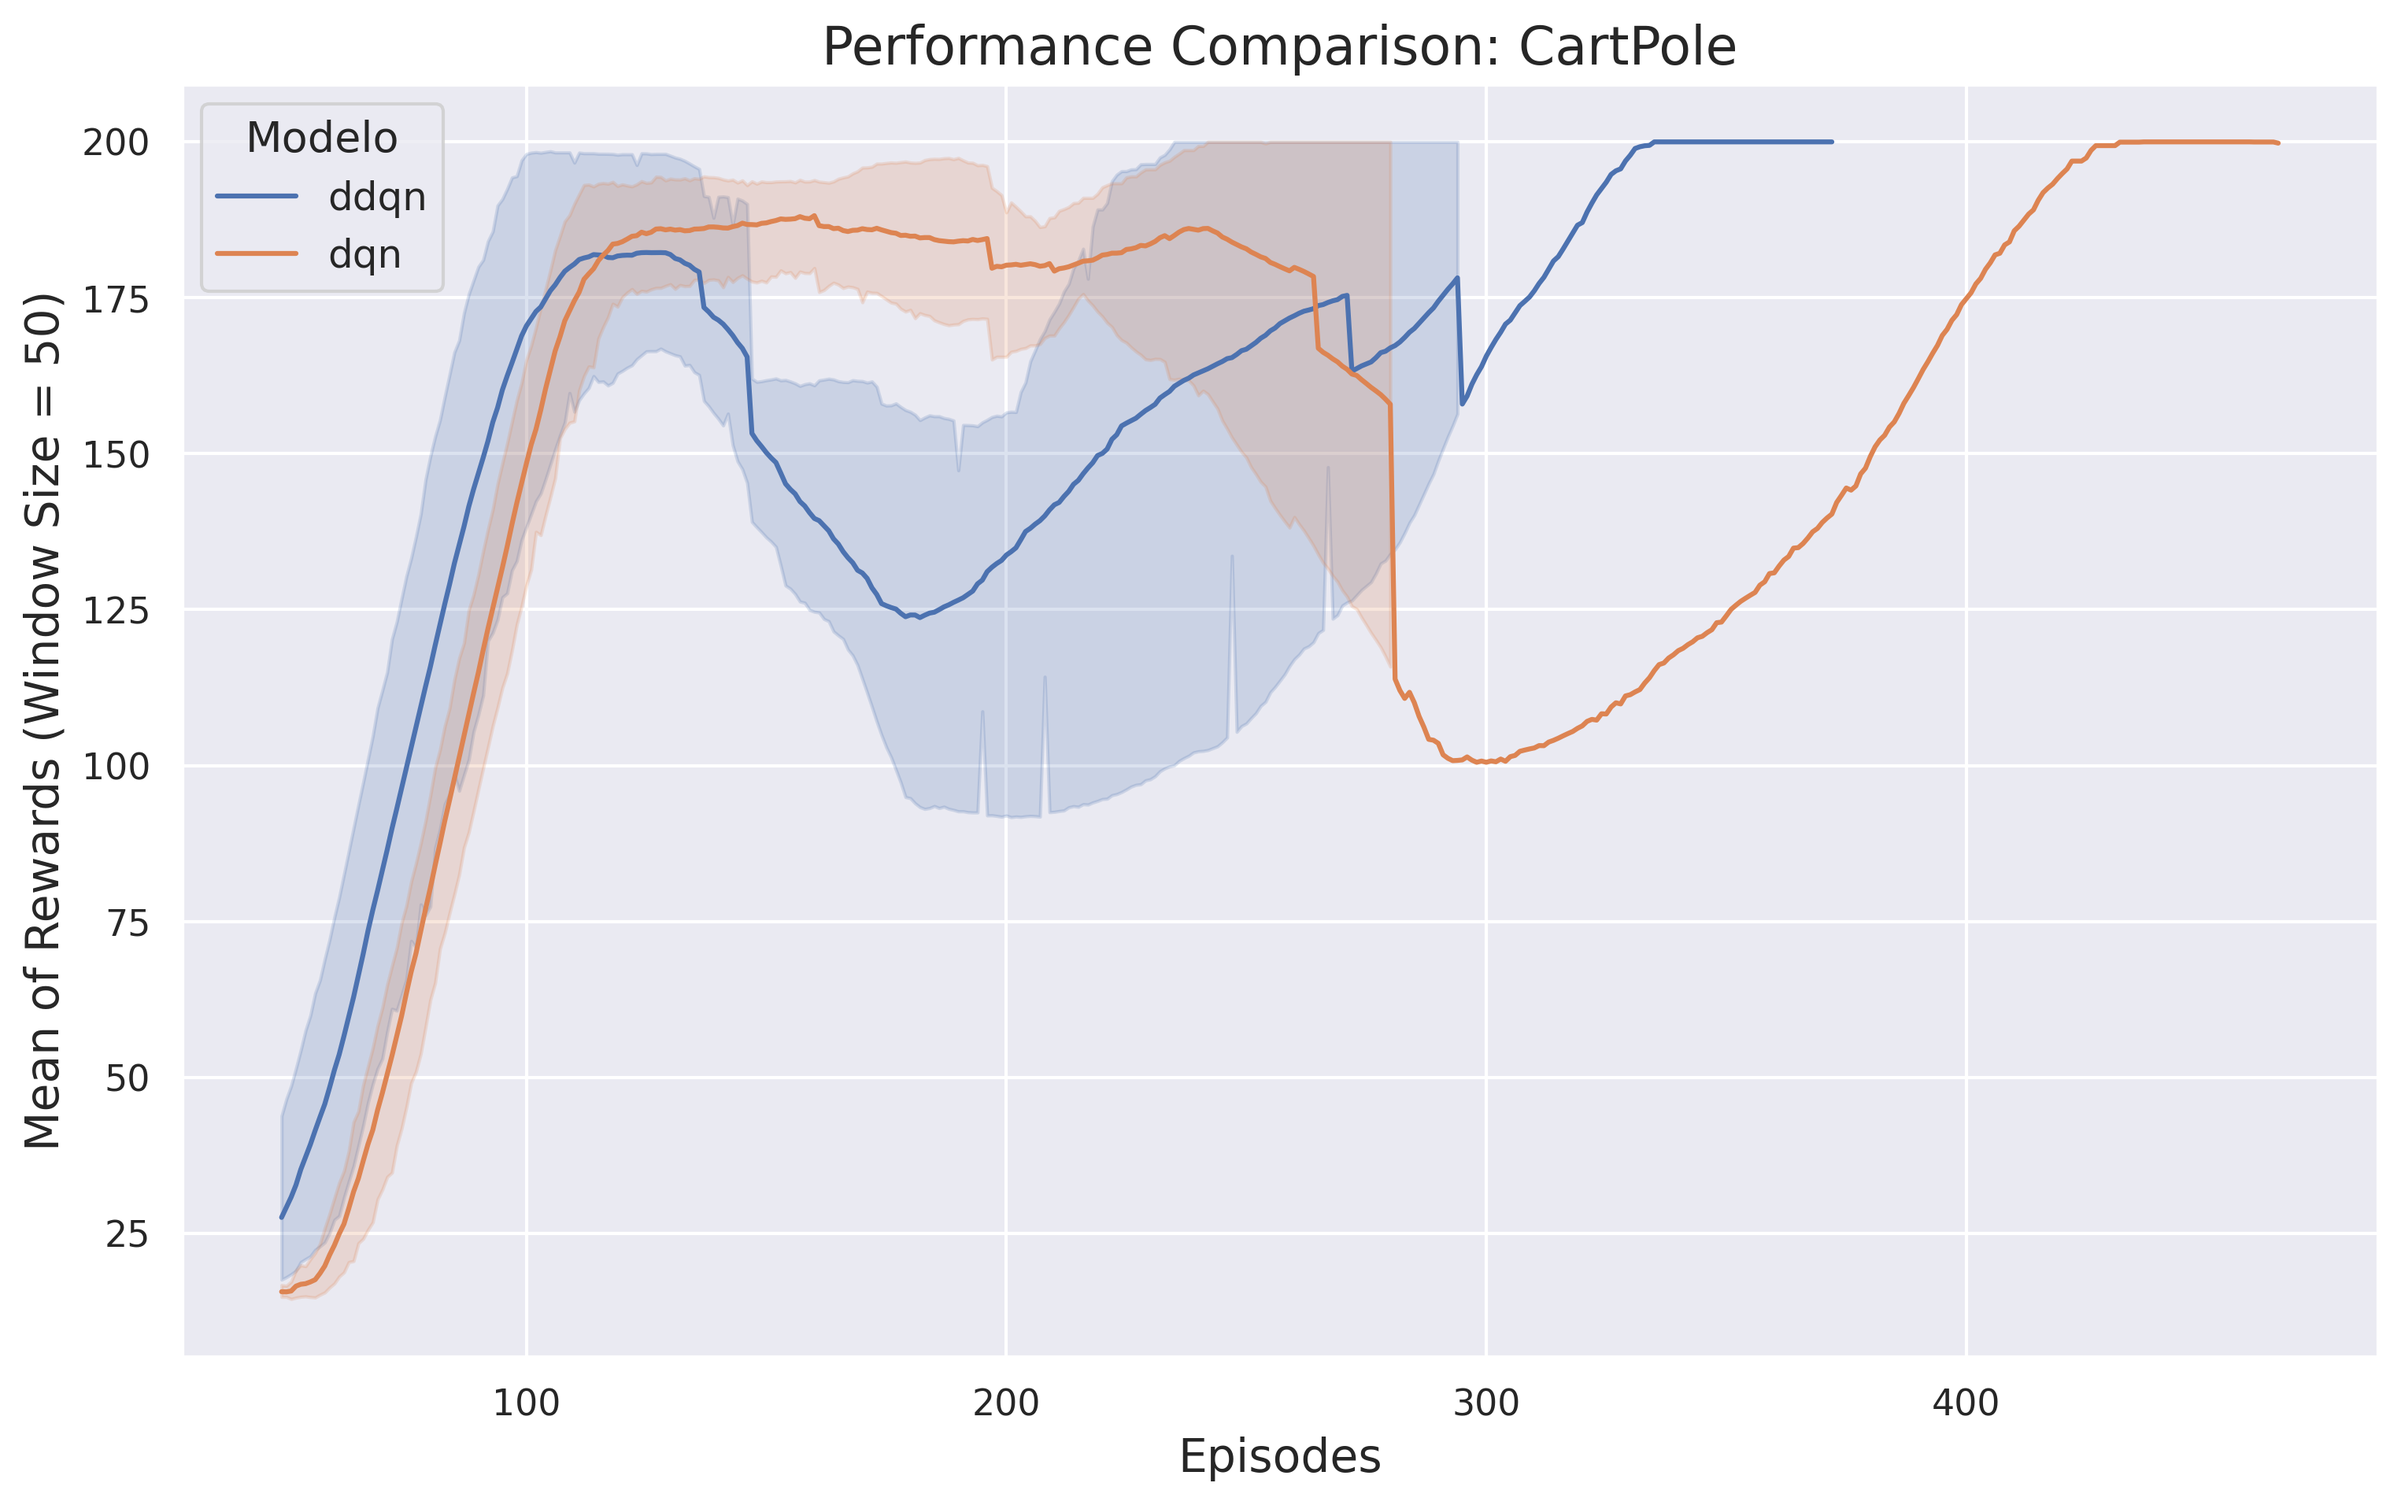
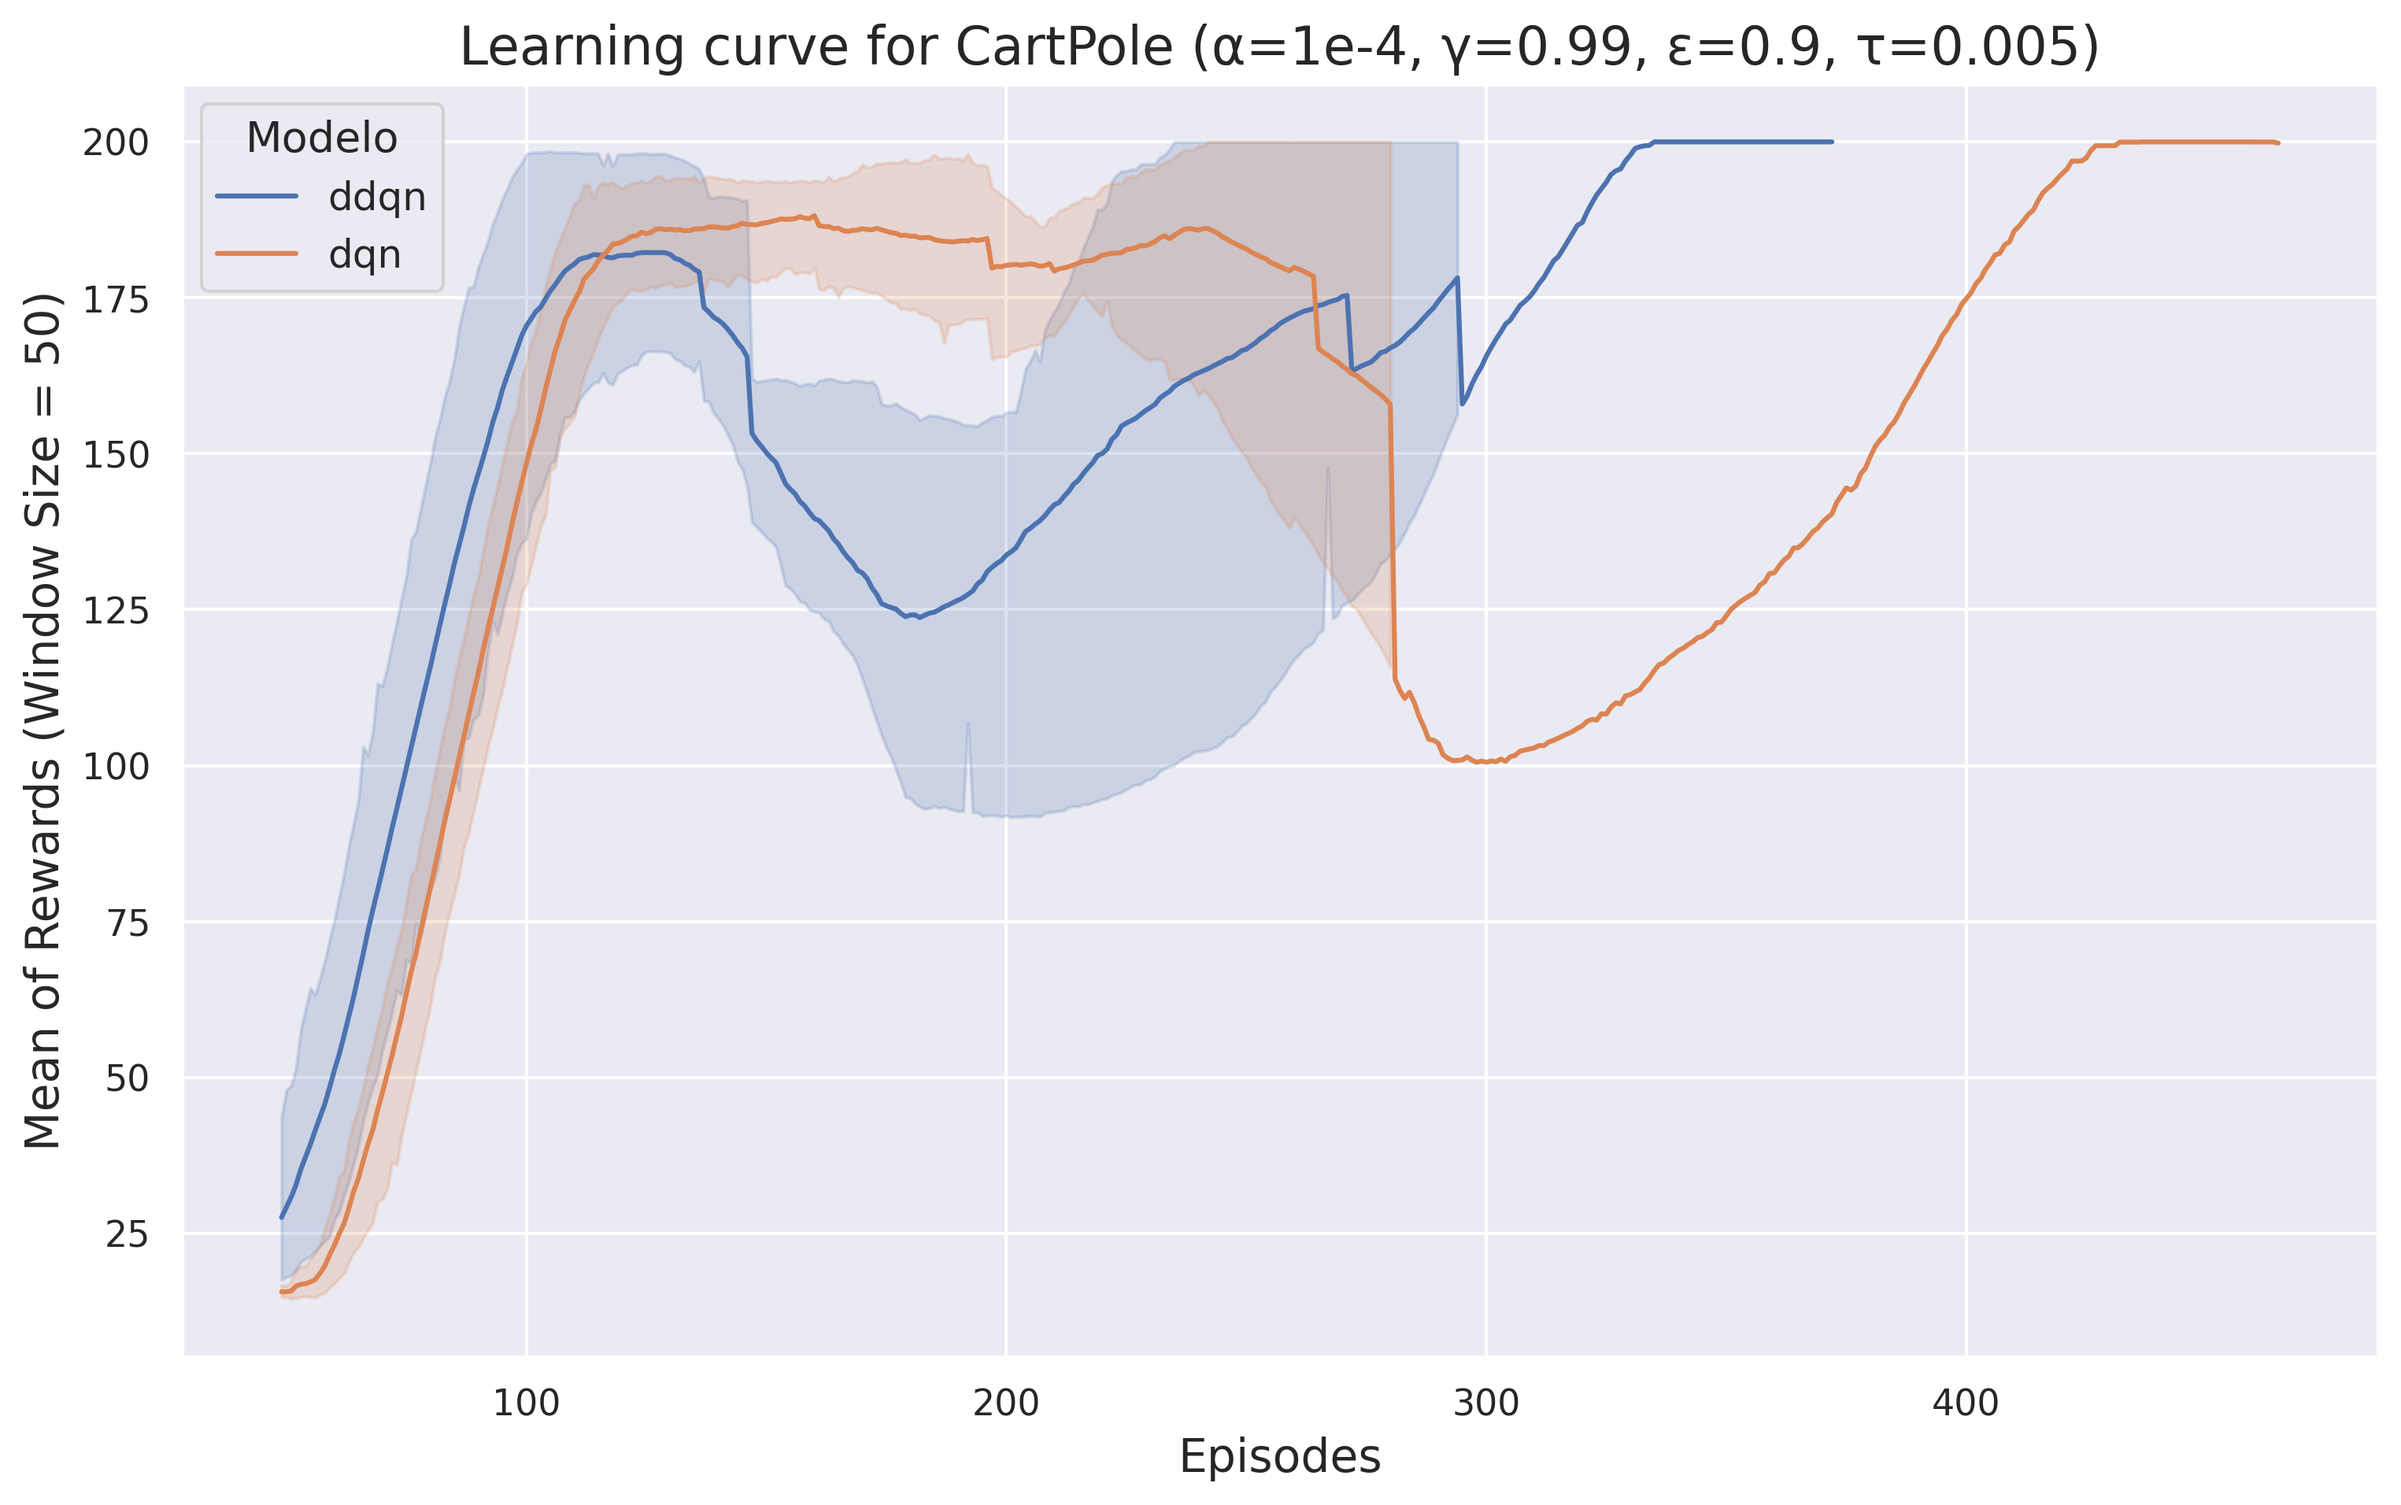
Graphs with hyperparameters

Changed region(s): [[0.1869, 0.0, 0.7475, 0.0617], [0.7787, 0.0, 0.8721, 0.0617], [0.4049, 0.5246, 0.4361, 0.5554]]

diff --git a/plot_graphs.py b/plot_graphs.py
@@ -41,6 +41,6 @@ for prefix, files_group in names.items():
         dfs.append(df_temp)
 
     df_combined = pd.concat(dfs, ignore_index=True)
-    graph_title = f'Performance Comparison: {prefix}'
+    graph_title = f'Learning curve for {prefix} (α=1e-4, γ=0.99, ε=0.9, τ=0.005)'
     out_file_name = f'{prefix}_comparison.png'
     plot_graphs(df_combined, graph_title, out_file_name)
